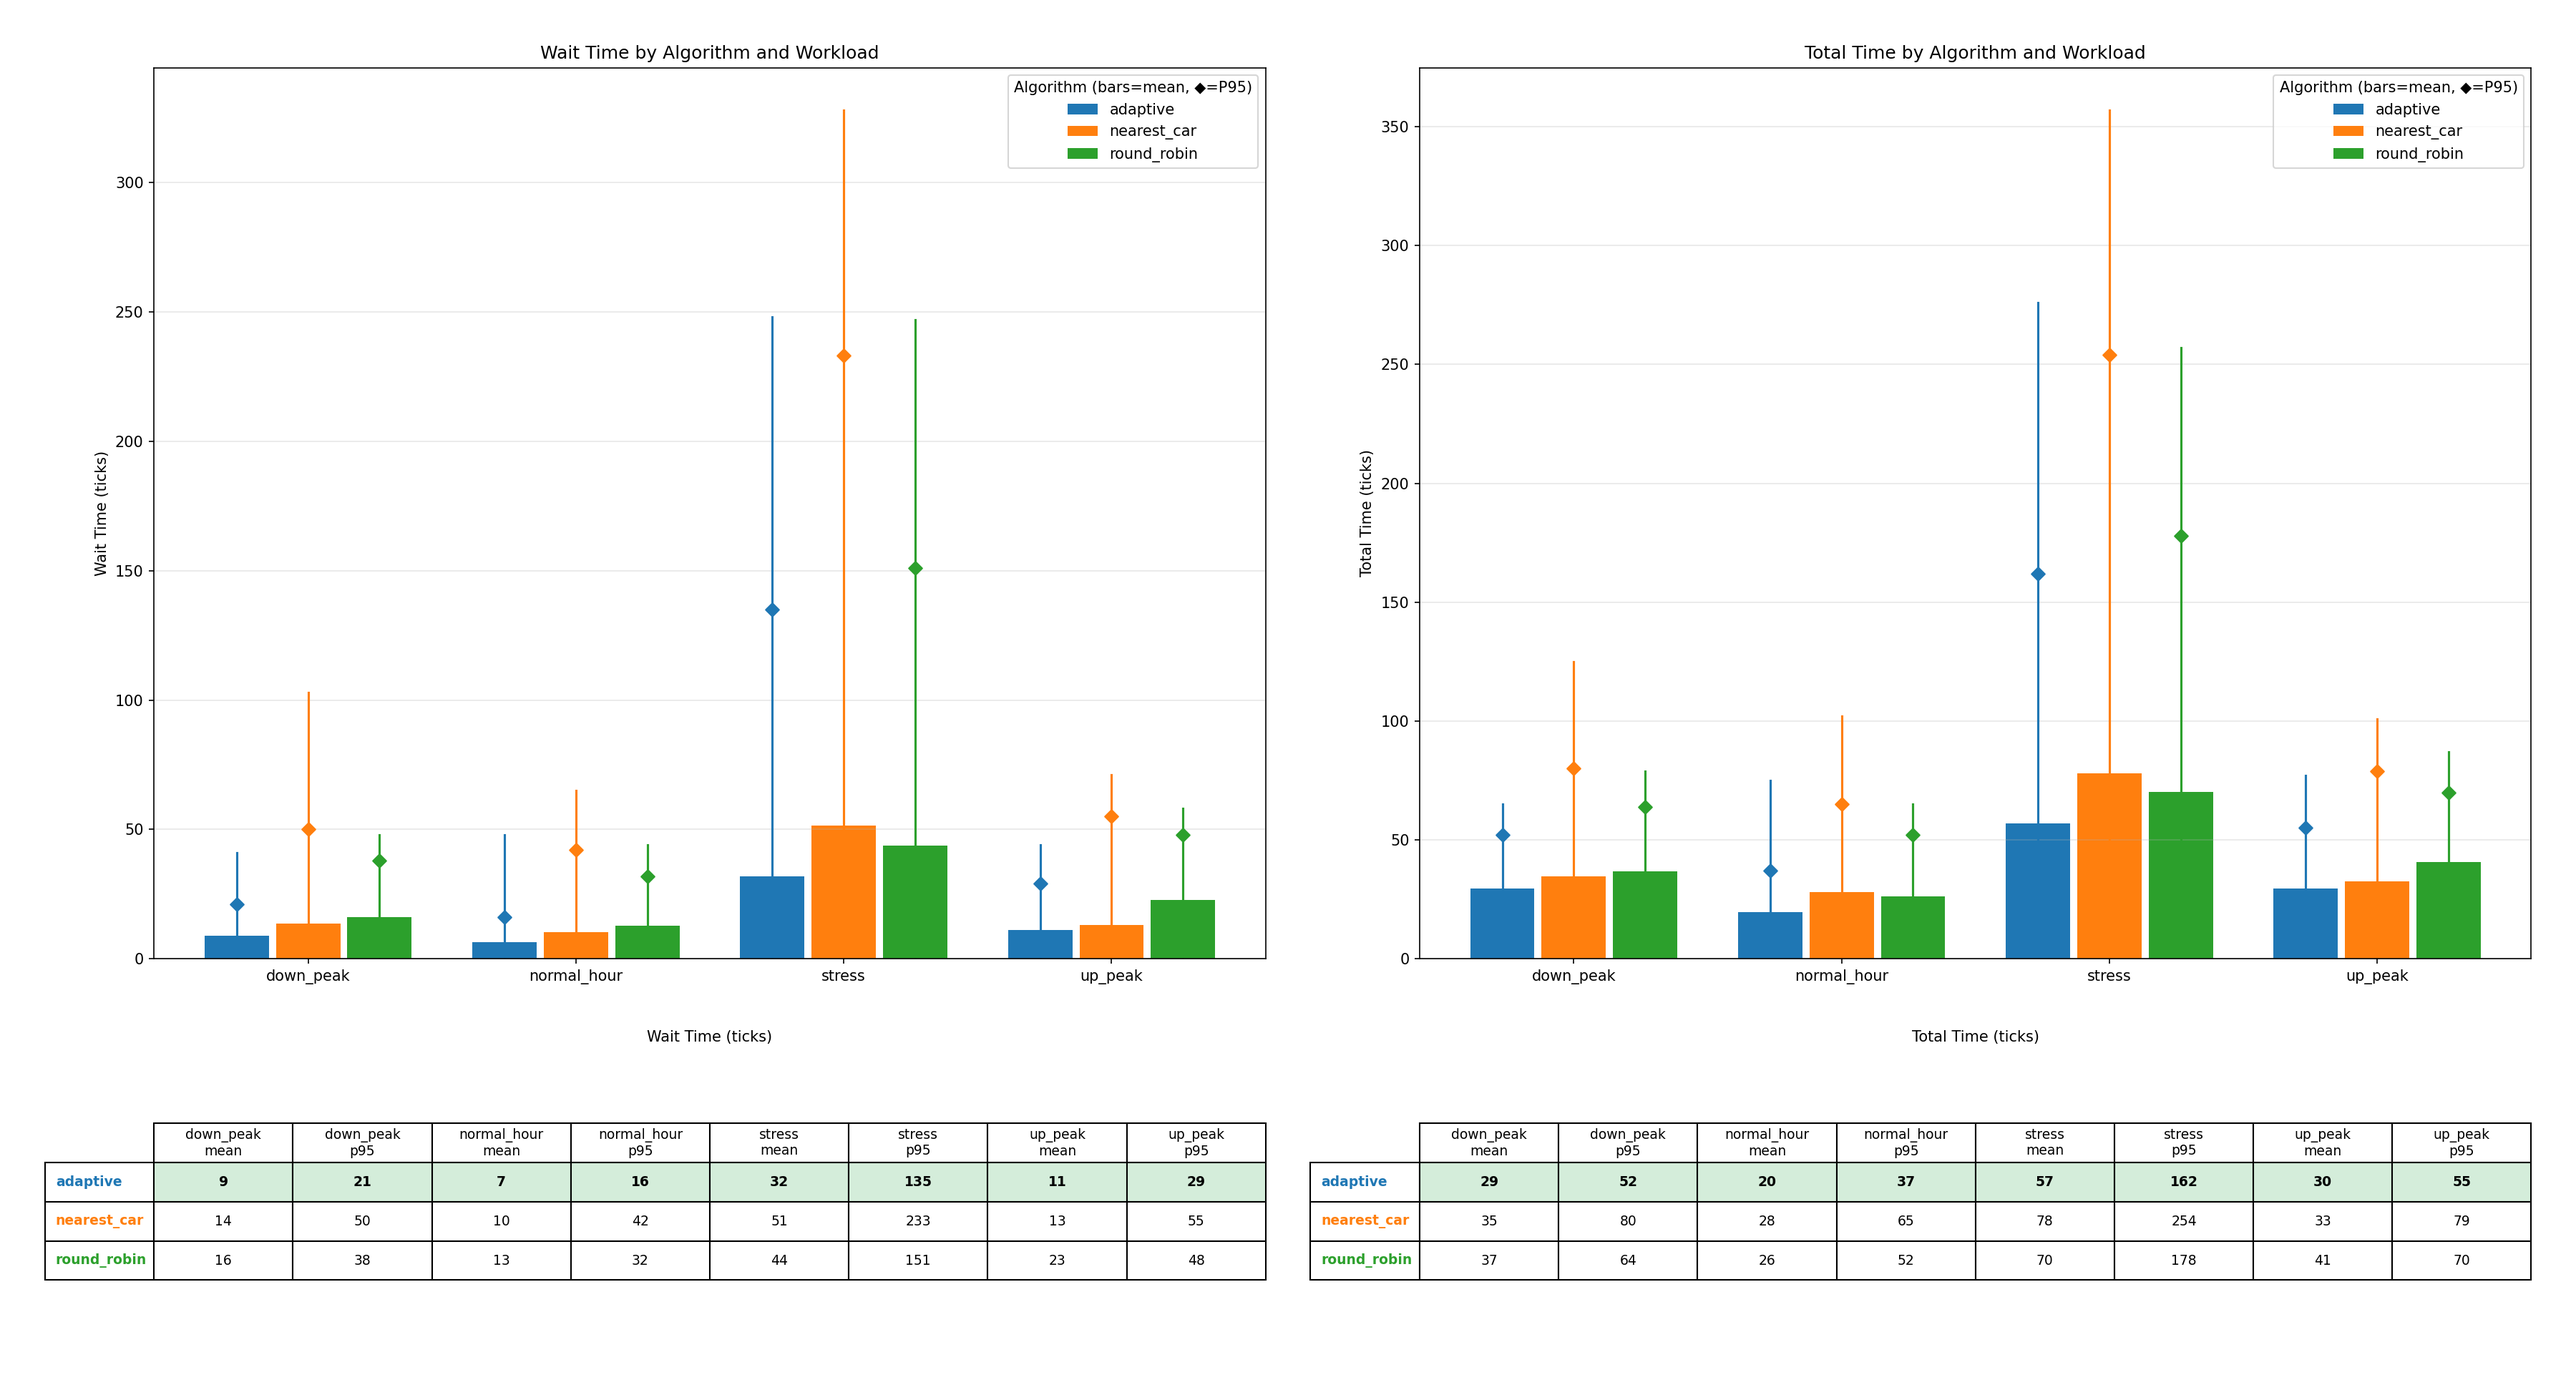
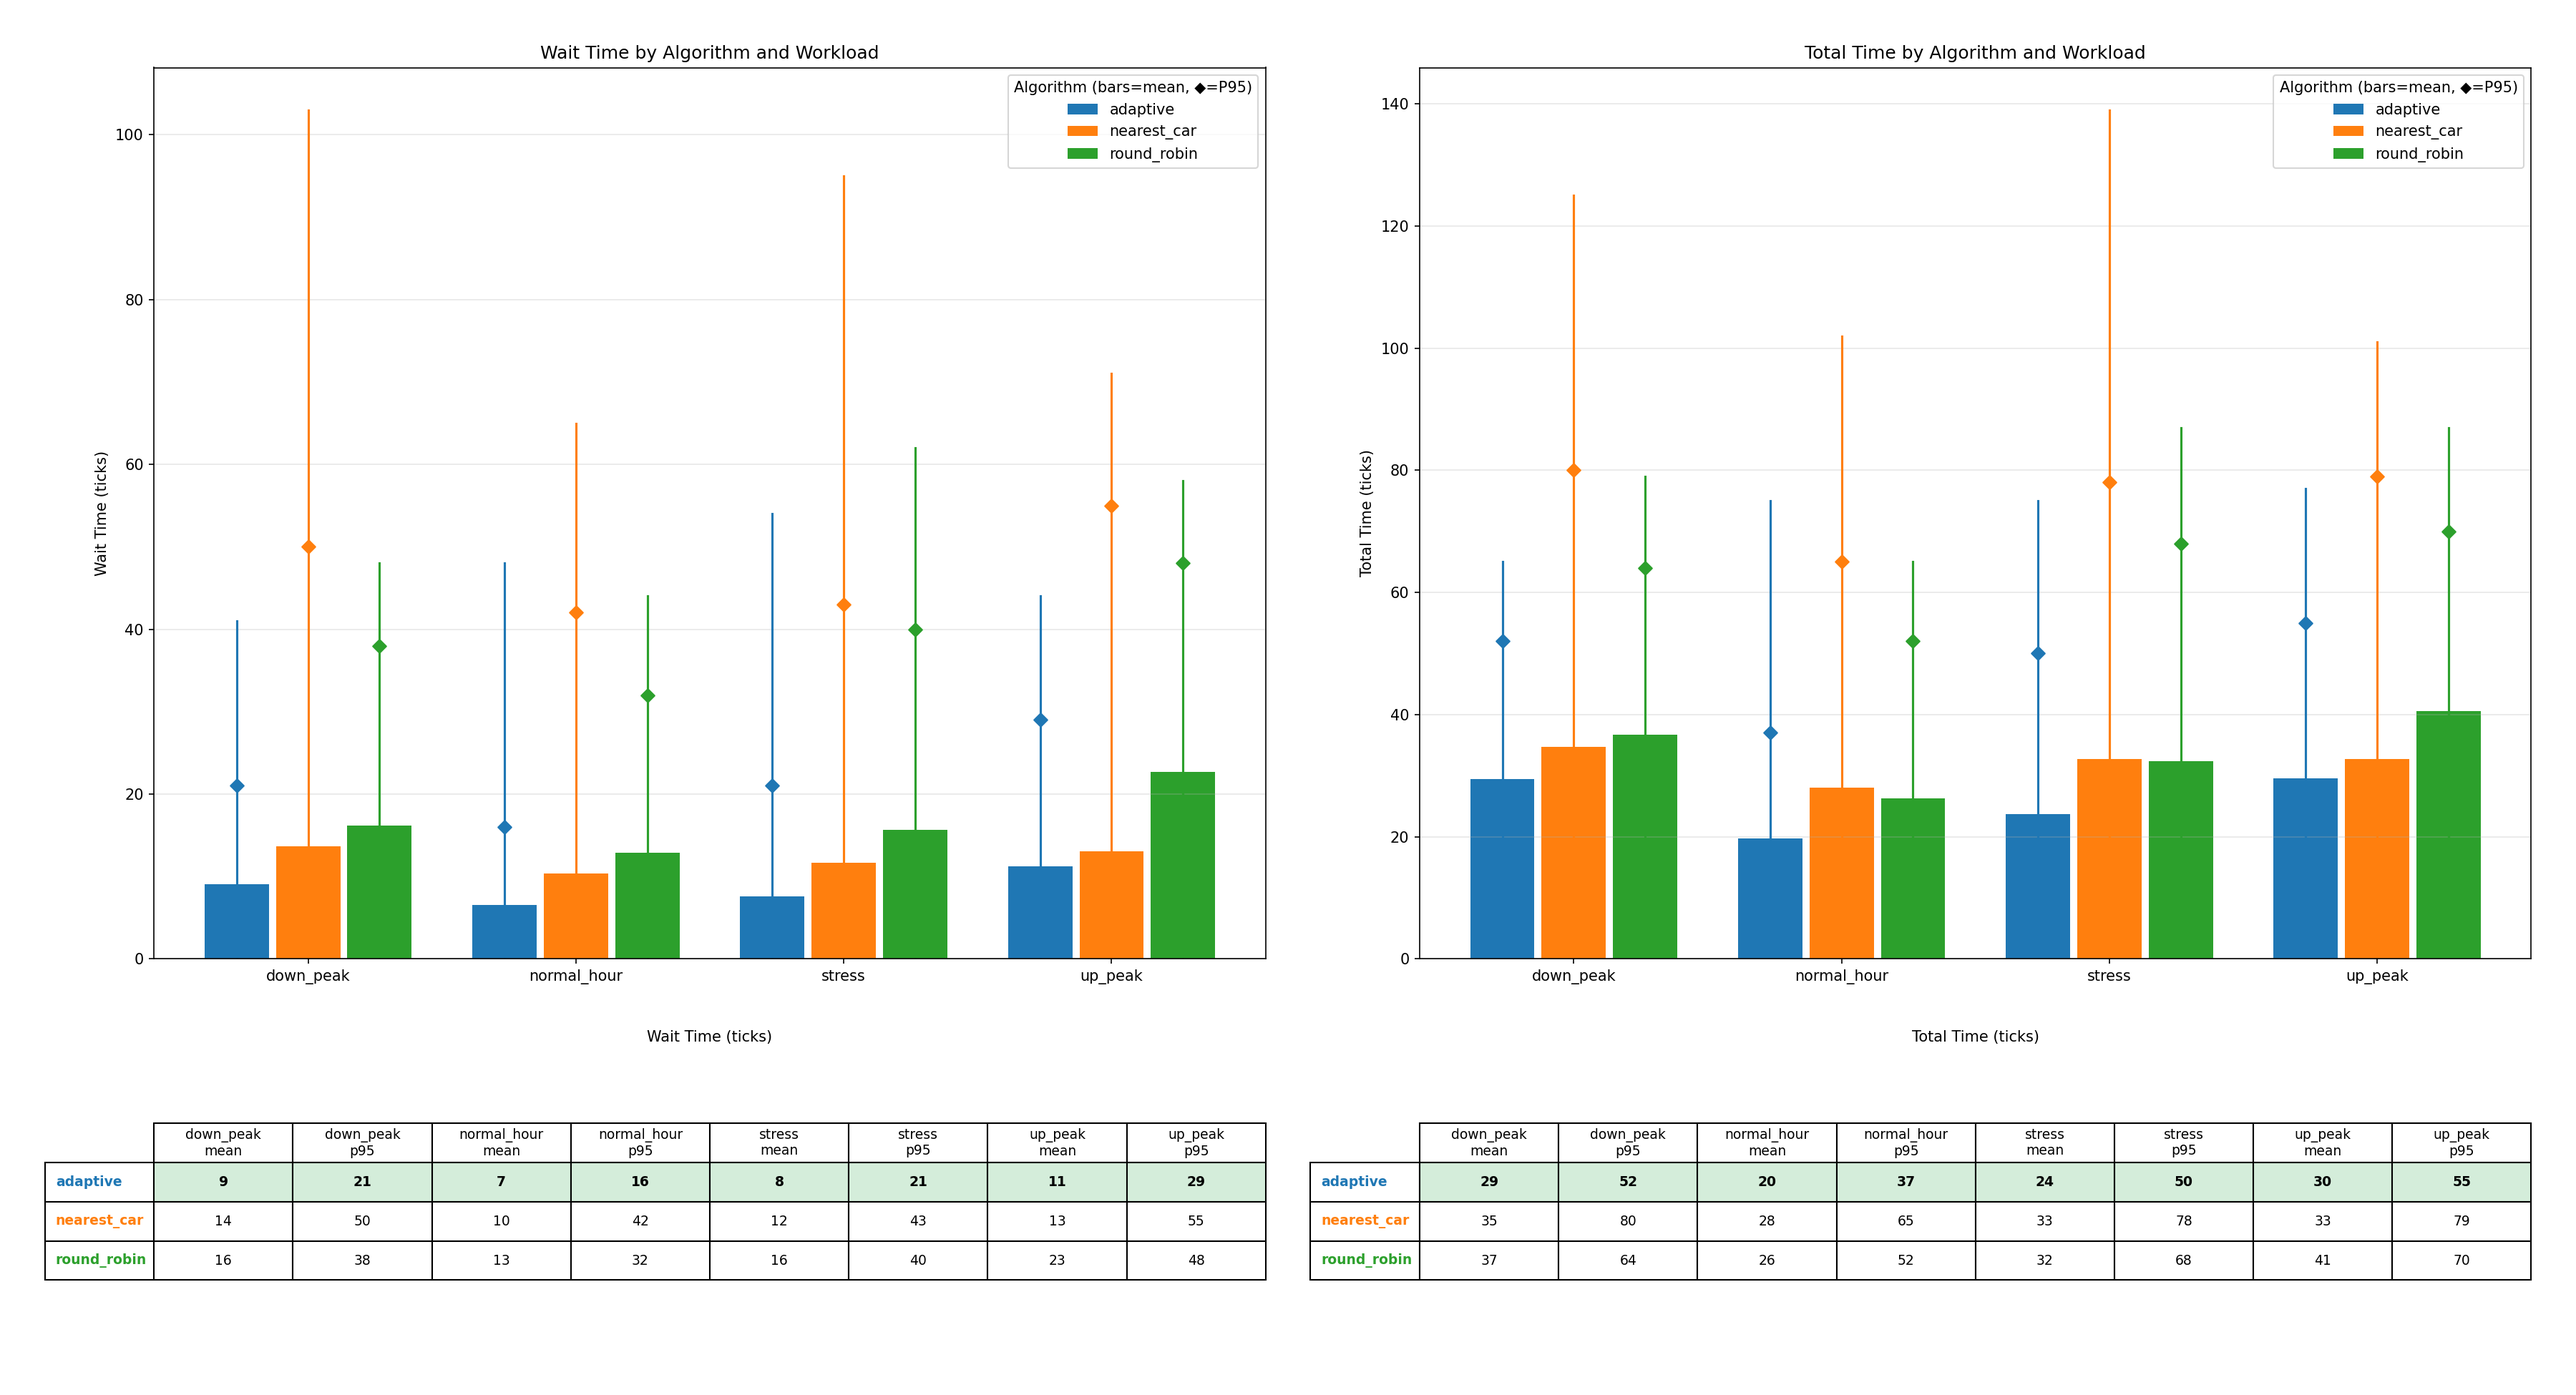
Fix stress workload and add RateSchedule abstraction
The stress workload had two bugs: spike_rate was used as an absolute
Poisson rate (6.67x effective) instead of a 2x multiplier, and the
duration estimate ignored the spike phase causing all passengers to
be consumed before the post-spike window.

Introduce RatePhase/RateSchedule to model piecewise-constant arrival
rates explicitly. The stress scenario now uses three phases (base at
0-30%, 2x burst at 30-50%, base at 50-100%) and all workloads route
through the schedule-aware _generate_arrivals. Benchmark results
updated to reflect the corrected workload.

diff --git a/src/liftos/simulator/workloads.py b/src/liftos/simulator/workloads.py
@@ -3,23 +3,76 @@ from __future__ import annotations
 import json
 import math
 import random
+from dataclasses import dataclass
 from pathlib import Path
 
 from liftos.models import Request
 
 
+@dataclass(frozen=True)
+class RatePhase:
+    """A constant-rate segment within a :class:`RateSchedule`.
+
+    *start* and *end* are fractions of total duration in [0, 1].
+    """
+
+    start: float
+    end: float
+    rate: float
+
+
+class RateSchedule:
+    """Piecewise-constant Poisson arrival rate over normalised time [0, 1].
+
+    Phases must cover [0, 1] exactly, with no gaps or overlaps.
+    """
+
+    def __init__(self, phases: list[RatePhase]) -> None:
+        phases = sorted(phases, key=lambda p: p.start)
+        if phases[0].start != 0.0 or phases[-1].end != 1.0:
+            raise ValueError("Phases must cover [0.0, 1.0]")
+        for a, b in zip(phases, phases[1:]):
+            if a.end != b.start:
+                raise ValueError(f"Gap or overlap between phases at {a.end}")
+        self.phases = phases
+
+    @classmethod
+    def constant(cls, rate: float) -> RateSchedule:
+        """Single constant rate across the entire duration."""
+        return cls([RatePhase(0.0, 1.0, rate)])
+
+    def weighted_rate(self) -> float:
+        """Duration-weighted average rate."""
+        return sum(p.rate * (p.end - p.start) for p in self.phases)
+
+    def expected_duration(self, num_passengers: int) -> float:
+        """Estimated total simulation ticks for *num_passengers*."""
+        return num_passengers / self.weighted_rate()
+
+    def rate_at(self, t: float, total_duration: float) -> float:
+        """Return the Poisson rate at absolute time *t*."""
+        frac = t / total_duration if total_duration > 0 else 0.0
+        for phase in self.phases:
+            if phase.start <= frac < phase.end:
+                return phase.rate
+        # t is at or past the last boundary — use the final phase
+        return self.phases[-1].rate
+
+
 def _generate_arrivals(
     num_passengers: int,
     num_floors: int,
-    rate: float,
+    schedule: RateSchedule,
     source_fn: callable,
     dest_fn: callable,
     rng: random.Random,
 ) -> list[Request]:
-    """Generate requests using Poisson arrivals with given source/dest distributions."""
+    """Generate requests using Poisson arrivals following *schedule*."""
+    total_duration = schedule.expected_duration(num_passengers)
     requests: list[Request] = []
     t = 0.0
     for i in range(num_passengers):
+        rate = schedule.rate_at(t, total_duration)
         t += rng.expovariate(rate)
         source = source_fn(rng)
         dest = dest_fn(rng, source)
@@ -55,7 +108,9 @@ def up_peak(
             d = r.randint(1, num_floors)
         return d
 
-    return _generate_arrivals(num_passengers, num_floors, rate, source, dest, rng)
+    return _generate_arrivals(
+        num_passengers, num_floors, RateSchedule.constant(rate), source, dest, rng
+    )
 
 
 def down_peak(
@@ -73,7 +128,9 @@ def down_peak(
     def dest(_r: random.Random, _src: int) -> int:
         return 1
 
-    return _generate_arrivals(num_passengers, num_floors, rate, source, dest, rng)
+    return _generate_arrivals(
+        num_passengers, num_floors, RateSchedule.constant(rate), source, dest, rng
+    )
 
 
 def normal_hour(
@@ -94,7 +151,9 @@ def normal_hour(
             d = r.randint(1, num_floors)
         return d
 
-    return _generate_arrivals(num_passengers, num_floors, rate, source, dest, rng)
+    return _generate_arrivals(
+        num_passengers, num_floors, RateSchedule.constant(rate), source, dest, rng
+    )
 
 
 def stress(
@@ -102,21 +161,18 @@ def stress(
     num_floors: int,
     seed: int,
     base_rate: float = 0.3,
-    spike_rate: float = 2.0,
-    spike_start_frac: float = 0.3,
-    spike_duration_frac: float = 0.2,
+    spike_multiplier: float = 2.0,
 ) -> list[Request]:
-    """Spike load: base rate with a sudden burst in the middle.
-
-    Generates requests at base_rate, switches to spike_rate for the
-    spike window, then drops back to base_rate.
-    """
+    """Load spike: baseline *base_rate* with a *spike_multiplier*x burst
+    from 30% to 50% of total duration."""
     rng = random.Random(seed)
 
-    # Estimate total duration to place the spike window
-    avg_duration = num_passengers / base_rate
-    spike_start = avg_duration * spike_start_frac
-    spike_end = spike_start + avg_duration * spike_duration_frac
+    spike_rate = base_rate * spike_multiplier
+    schedule = RateSchedule([
+        RatePhase(0.0, 0.3, base_rate),
+        RatePhase(0.3, 0.5, spike_rate),
+        RatePhase(0.5, 1.0, base_rate),
+    ])
 
     def source(r: random.Random) -> int:
         return r.randint(1, num_floors)
@@ -127,23 +183,9 @@ def stress(
             d = r.randint(1, num_floors)
         return d
 
-    requests: list[Request] = []
-    t = 0.0
-    for i in range(num_passengers):
-        rate = spike_rate if spike_start <= t < spike_end else base_rate
-        t += rng.expovariate(rate)
-        src = source(rng)
-        dst = dest(rng, src)
-        requests.append(
-            Request(
-                id=f"p-{i:04d}",
-                source=src,
-                dest=dst,
-                time=math.ceil(t),
-            )
-        )
-
-    return requests
+    return _generate_arrivals(
+        num_passengers, num_floors, schedule, source, dest, rng
+    )
 
 
 WORKLOADS: dict[str, callable] = {

diff --git a/tests/test_workloads.py b/tests/test_workloads.py
@@ -1,9 +1,64 @@
-from liftos.simulator.workloads import down_peak, normal_hour, stress, up_peak
+import pytest
+
+from liftos.simulator.workloads import (
+    RatePhase,
+    RateSchedule,
+    down_peak,
+    normal_hour,
+    stress,
+    up_peak,
+)
 
 
 NUM_PASSENGERS = 200
 NUM_FLOORS = 20
 SEED = 42
+
+
+# -- RateSchedule unit tests -------------------------------------------------
+
+
+class TestRateSchedule:
+    def test_constant(self):
+        s = RateSchedule.constant(0.5)
+        assert len(s.phases) == 1
+        assert s.weighted_rate() == 0.5
+        assert s.expected_duration(100) == pytest.approx(200.0)
+
+    def test_multi_phase_weighted_rate(self):
+        s = RateSchedule([
+            RatePhase(0.0, 0.3, 0.3),
+            RatePhase(0.3, 0.5, 0.6),
+            RatePhase(0.5, 1.0, 0.3),
+        ])
+        # 0.3*0.3 + 0.2*0.6 + 0.5*0.3 = 0.09 + 0.12 + 0.15 = 0.36
+        assert s.weighted_rate() == pytest.approx(0.36)
+
+    def test_rate_at(self):
+        s = RateSchedule([
+            RatePhase(0.0, 0.5, 1.0),
+            RatePhase(0.5, 1.0, 2.0),
+        ])
+        assert s.rate_at(0.0, 100.0) == 1.0
+        assert s.rate_at(25.0, 100.0) == 1.0
+        assert s.rate_at(50.0, 100.0) == 2.0
+        assert s.rate_at(75.0, 100.0) == 2.0
+        # At or past end — returns last phase rate
+        assert s.rate_at(100.0, 100.0) == 2.0
+
+    def test_gap_rejected(self):
+        with pytest.raises(ValueError, match="Gap or overlap"):
+            RateSchedule([
+                RatePhase(0.0, 0.4, 1.0),
+                RatePhase(0.6, 1.0, 1.0),
+            ])
+
+    def test_incomplete_coverage_rejected(self):
+        with pytest.raises(ValueError, match="cover"):
+            RateSchedule([RatePhase(0.0, 0.5, 1.0)])
+
+
+# -- Workload property tests --------------------------------------------------
 
 
 class TestWorkloadProperties:
@@ -43,6 +98,29 @@ class TestWorkloadProperties:
     def test_stress(self):
         reqs = stress(NUM_PASSENGERS, NUM_FLOORS, SEED)
         self._check_common(reqs)
+
+    def test_stress_has_three_phases(self):
+        """Burst at 30-50% should produce passengers in all three phases."""
+        reqs = stress(2000, NUM_FLOORS, SEED)
+        times = [r.time for r in reqs]
+
+        base = 0.3
+        spike = base * 2.0
+        schedule = RateSchedule([
+            RatePhase(0.0, 0.3, base),
+            RatePhase(0.3, 0.5, spike),
+            RatePhase(0.5, 1.0, base),
+        ])
+        T = schedule.expected_duration(2000)
+
+        before = sum(1 for t in times if t < T * 0.3)
+        during = sum(1 for t in times if T * 0.3 <= t < T * 0.5)
+        after = sum(1 for t in times if t >= T * 0.5)
+
+        # All three phases must have meaningful traffic
+        assert before > 100
+        assert during > 100
+        assert after > 100
 
 
 class TestDeterminism:

diff --git a/README.md b/README.md
@@ -54,7 +54,7 @@ Each run produces:
 | `up_peak` | Morning rush. 80% of passengers start at ground floor and travel to random upper floors. Arrival rate 0.5. |
 | `down_peak` | Evening rush. All passengers start on upper floors and travel to ground. Arrival rate 0.5. |
 | `normal_hour` | Mid-day inter-floor traffic. Random origins and destinations across all floors. Arrival rate 0.3. |
-| `stress` | Load spike. Baseline rate 0.3 with a 2.0x burst at 30% through the simulation lasting 20% of total duration. Tests behavior under sudden congestion. |
+| `stress` | Load spike. Baseline rate 0.3 with a 2.0x burst from 30% to 50% of total duration. Tests behavior under sudden congestion. |
 
 All workloads use Poisson arrivals with exponential inter-arrival times. The seed parameter makes them deterministic.
 
@@ -118,10 +118,10 @@ See [webapp/README.md](webapp/README.md) for details.
 | down_peak | total mean / p95 | **29 / 52** | 37 / 64 | 35 / 80 |
 | normal_hour | wait mean / p95 | **7 / 16** | 13 / 32 | 10 / 42 |
 | normal_hour | total mean / p95 | **20 / 37** | 26 / 52 | 28 / 65 |
-| stress | wait mean / p95 | **32 / 135** | 44 / 151 | 51 / 233 |
-| stress | total mean / p95 | **57 / 162** | 70 / 178 | 78 / 254 |
+| stress | wait mean / p95 | **8 / 21** | 16 / 40 | 12 / 43 |
+| stress | total mean / p95 | **24 / 50** | 32 / 68 | 33 / 78 |
 
-Adaptive wins on mean across every workload and metric. On stress p95 -- the hardest metric to optimize -- adaptive beats round-robin by 11% on wait and 9% on total.
+Adaptive wins on mean and p95 across every workload and metric.
 
 ## Optimization Journey
 
